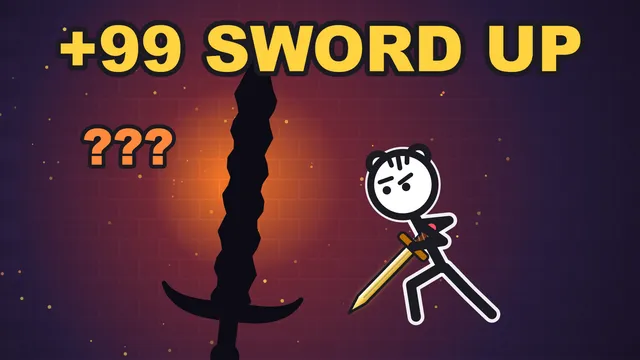
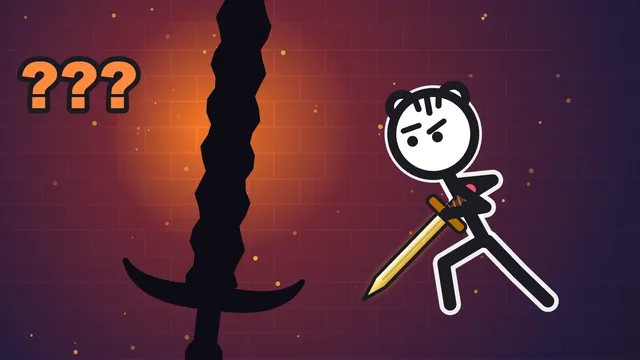
NEW · UPDATE 표시를 실제 공개 날짜대로(7일 안)

diff --git a/index.html b/index.html
@@ -87,26 +87,26 @@ footer a{margin:0 8px;color:var(--ink)}
 </footer>
 <script>
 const G = [
-  { id: 'claw', url: 'ny4y672bgn55pk', name: 'Claw Pop', tag: 'new', g: 'arcade', hero: 1,
+  { id: 'claw', url: 'ny4y672bgn55pk', name: 'Claw Pop', tag: 'up', g: 'arcade', hero: 1,
     ko: ['새벽 3시, 뽑기방에 갇혔다', '동트기 전에 열쇠 인형을 뽑아 문 6개를 열어라. 정전 · 경비 · 저주받은 인형.'],
     en: ['Locked in a claw shop at 3 AM', 'Grab the key plush and open 6 doors before dawn. Blackouts, a guard, cursed plush.'] },
   { id: 'gulp', url: 'rp5hg7v2xbxrec', name: 'Gulp Town', tag: 'up', g: 'smash', hero: 1,
     ko: ['구멍 하나로 마을을 통째로', '작은 구멍이 커지며 장난감 방 · 해저 마을 · 공룡 정글까지 10곳을 삼킨다.'],
     en: ['Swallow the whole town', 'A tiny hole grows until it eats 10 towns: toy room, undersea, dino jungle and more.'] },
-  { id: 'snow', url: 'rdtskf6x3lowde', name: 'Snowball Bear', tag: 'new', g: 'arcade', hero: 1,
+  { id: 'snow', url: 'rdtskf6x3lowde', name: 'Snowball Bear', tag: '', g: 'arcade', hero: 1,
     ko: ['눈덩이 굴려 마을에서 제일 큰 눈사람', '꼬마 북극곰 뭉치의 눈 오는 밤. 판마다 작은 이야기, 여섯 판.'],
     en: ['Roll the biggest snowman in town', "Little polar bear Puff's snowy night. Six stages, a small story in each."] },
-  { id: 'squeeze', url: '6ucj7qs4r2pgpw', name: 'Squeeze Lift', tag: 'new', g: 'puzzle', hero: 1,
+  { id: 'squeeze', url: '6ucj7qs4r2pgpw', name: 'Squeeze Lift', tag: '', g: 'puzzle', hero: 1,
     ko: ['문 닫히기 전에 다 태워', '스모 선수도 피아노도 소도, 엘리베이터에 꽉꽉 밀어 넣기.'],
     en: ['Cram them in before the doors close', 'Sumo wrestlers, pianos, cows: squeeze everyone into the lift.'] },
-  { id: 'melt', url: 'kkguhmxusq3gz5', name: 'AI Invasion', tag: 'hot', g: 'smash', hero: 1,
+  { id: 'melt', url: 'kkguhmxusq3gz5', name: 'AI Invasion', tag: 'up', g: 'smash', hero: 1,
     ko: ['레이저로 세계 도시를 녹여라', '벤치 하나 녹이던 레이저가 에펠탑 · 도쿄타워까지. 도시 11곳.'],
     en: ['Melt the world with a laser', 'From a park bench to the Eiffel Tower: 11 cities to melt.'] },
   { id: 'pocha', url: 'bgsvq4druc36jg', name: 'Night Market Tycoon: Baekho Pocha', tag: 'new', g: 'arcade',
     ko: ['백호가 밤 골목에서 포장마차를 연다', '붕어빵 한 판에서 시작해 등불 8개를 다 켜면 다음 도시. 서울 · 도쿄 · 방콕 · 타이베이.'], en: ['Run a night street-food stall', 'Start with one fish-bread grill and light all 8 lanterns to open the next city: Seoul, Tokyo, Bangkok, Taipei.'] },
-  { id: 'sword', url: 'devc6h5w6yqknp', name: '+99 Sword Up', tag: '', g: 'arcade',
+  { id: 'sword', url: 'devc6h5w6yqknp', name: '+99 Sword Up', tag: 'new', g: 'arcade',
     ko: ['버튼 하나로 칼을 +99까지', '성공하면 +1, 실패하면 깨진다. 깨진 조각으로 대장간을 키워 다시 도전.'], en: ['Upgrade your sword to +99 with one button', 'Success is +1, failure shatters it. Use the shards to grow your forge and try again.'] },
-  { id: 'sky', url: 'kna2vvtacb5og5', name: 'Skyfall Squad', tag: '', g: 'shooter',
+  { id: 'sky', url: 'kna2vvtacb5og5', name: 'Skyfall Squad', tag: 'up', g: 'shooter',
     ko: ['영웅 여섯, 하늘 다섯 곳', '손가락 하나로 날며 쏘는 세로 슈팅. 보스 앞에서 지원군 호출.'], en: ['Six heroes, five skies', 'A vertical shooter you fly with one finger. Call backup at the boss.'] },
   { id: 'bumpy', url: '2wv7rvomm4jnra', name: 'Bumpy Delivery', tag: '', g: 'arcade',
     ko: ['결혼식 5분 전, 케이크 배달', '흔들리는 트럭으로 3단 케이크를 지켜라. 길 10개.'], en: ['Wedding in 5 minutes', 'Keep a 3-tier cake on a wobbly truck across 10 roads.'] },
